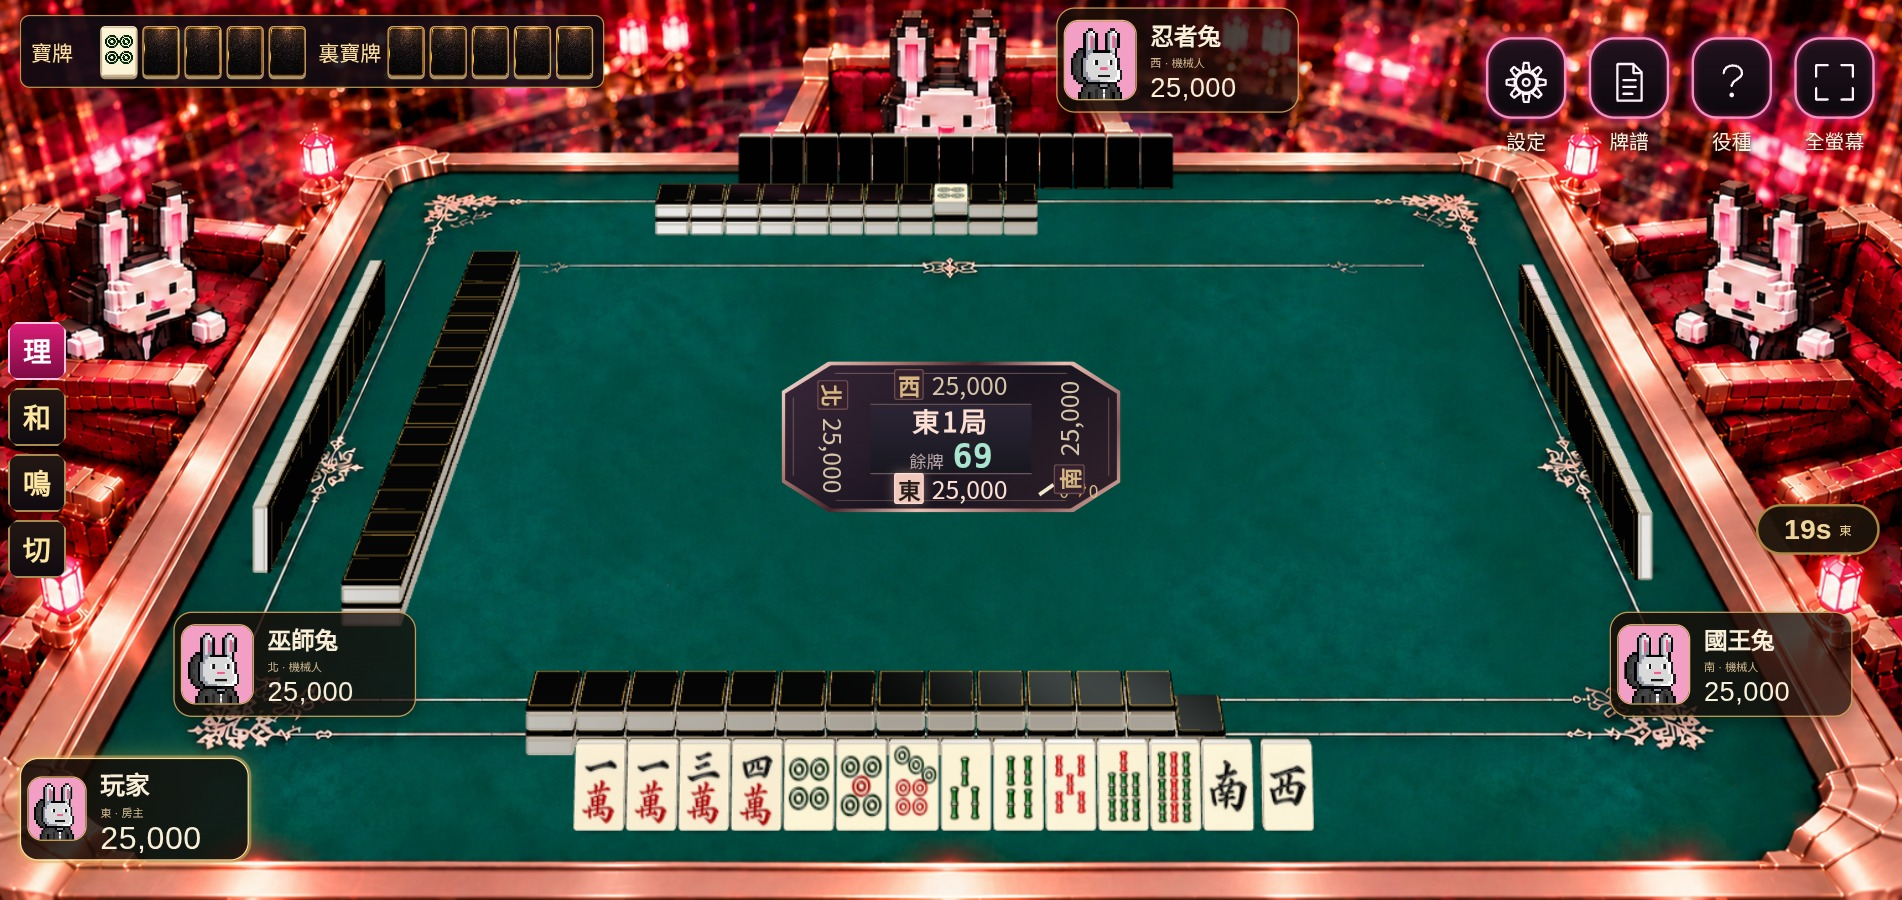
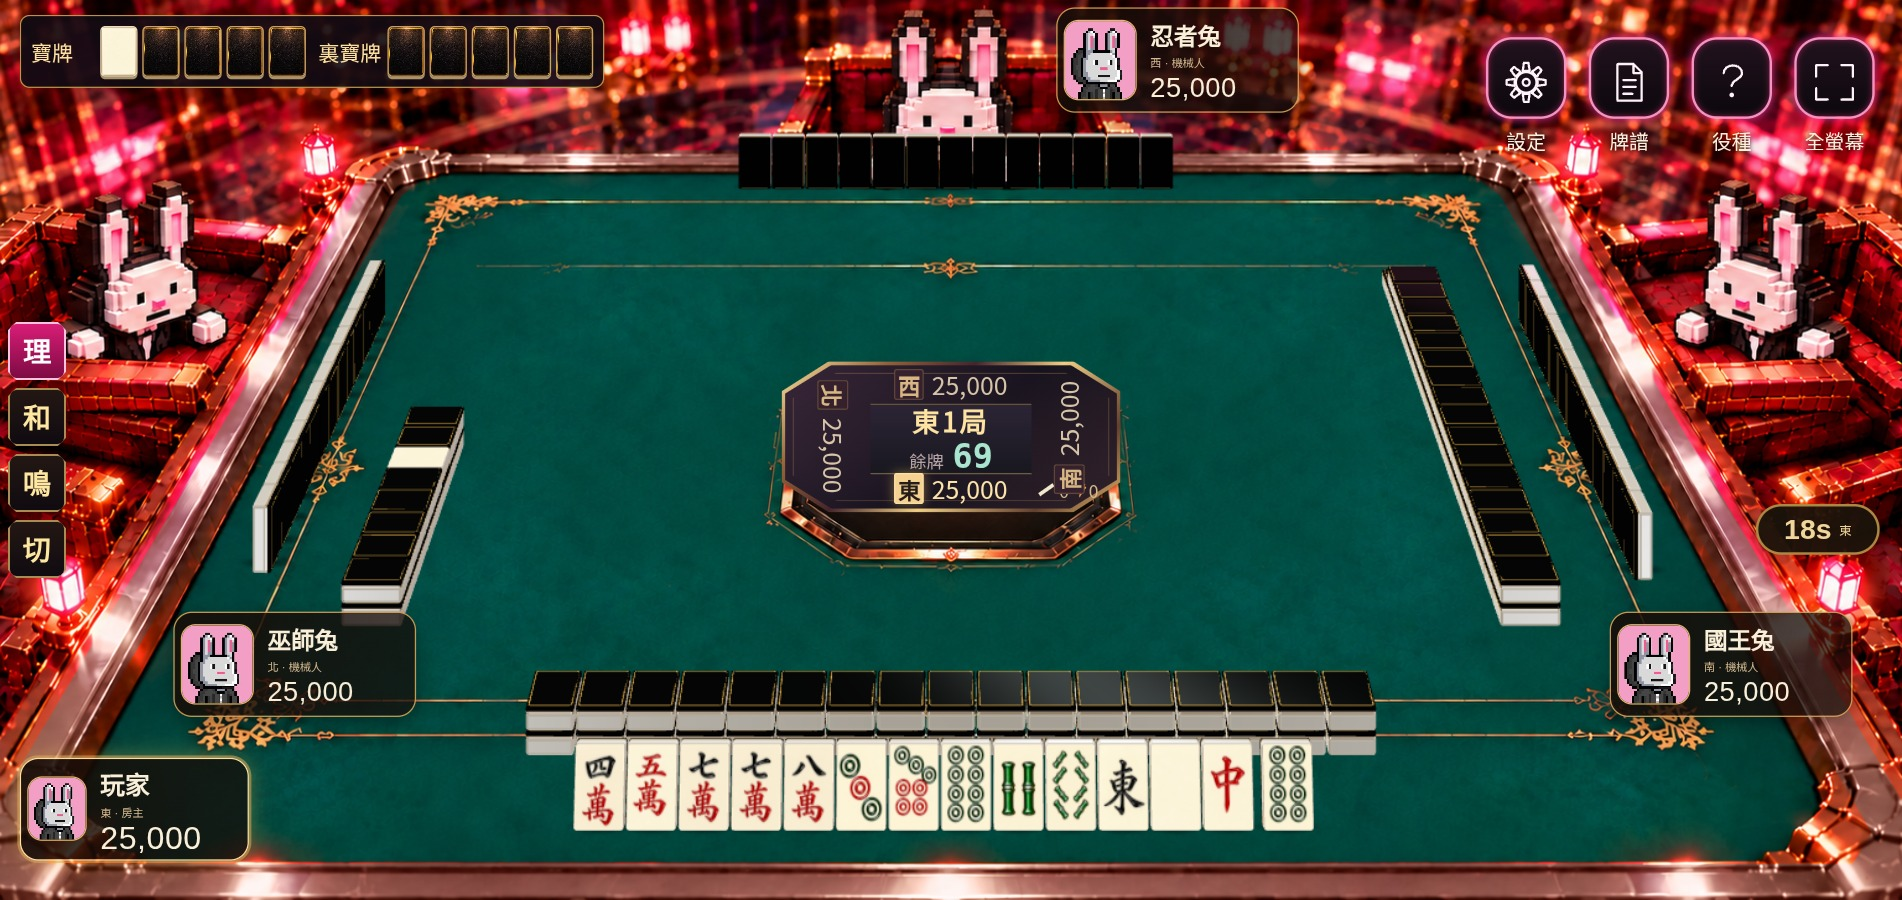
Restore original artwork and apply only a rose-gold rim color overlay

diff --git a/Bunny_Gala_Riichi_v2.7.2/client/src/round-hub.css b/Bunny_Gala_Riichi_v2.7.2/client/src/round-hub.css
@@ -1,6 +1,6 @@
 /* One reserved hub, centered between the four fixed river origins. */
 .table .round-center.gala-round-hub{position:absolute;left:50%;top:calc(var(--view-height)*.4853);width:274px;height:122px;transform:translate(-50%,-50%);display:block!important;padding:0;border:0!important;border-radius:0!important;box-shadow:none!important;background:none!important;isolation:isolate;pointer-events:none;font-family:'Noto Sans TC',sans-serif;color:#ffedc6}
-.gala-round-hub:before{display:none!important}.hub-bezel{position:absolute;inset:0;clip-path:polygon(14% 0,86% 0,100% 20%,100% 80%,86% 100%,14% 100%,0 80%,0 20%);background:linear-gradient(135deg,#ffe6e0 0%,#b78178 22%,#44252c 40%,#edbfb2 58%,#875a5a 82%,#e9b5a8);filter:drop-shadow(0 5px 4px #0009)}.hub-bezel:before{content:'';position:absolute;inset:3px;background:linear-gradient(135deg,#382638,#17131e 54%,#30212a);clip-path:inherit}.hub-bezel:after{content:'';position:absolute;inset:9px;border:1px solid #e8b9ac55;clip-path:inherit;background:radial-gradient(ellipse,#5e3a431f,#0000)}
-.hub-seat{position:absolute;display:flex;align-items:center;justify-content:center;gap:6px;height:30px;min-width:100px;color:#d8c5aa;font-size:20px;font-variant-numeric:tabular-nums;line-height:1;z-index:2}.hub-seat b{display:grid;place-items:center;width:24px;height:25px;background:#35212d;color:#d8b785;font-size:18px;border:1px solid #c5918266;border-radius:2px}.hub-seat.active b{color:#241b18;background:#f1c8bc;border-color:#ffe2d9;box-shadow:0 0 9px #eab6a577}.hub-seat.active span{color:#ffe1d5}.hub-seat-0{bottom:4px;left:50%;transform:translateX(-50%)}.hub-seat-2{top:4px;left:50%;transform:translateX(-50%)}.hub-seat-1{right:-8px;top:50%;transform:translateY(-50%) rotate(-90deg)}.hub-seat-3{left:-8px;top:50%;transform:translateY(-50%) rotate(90deg)}
-.hub-core{position:absolute;inset:34px 72px 31px;display:flex;flex-direction:column;justify-content:center;align-items:center;border-top:1px solid #d1a39766;border-bottom:1px solid #d1a39766;background:linear-gradient(#2c2435,#181820);line-height:1.1;gap:4px}.hub-core>strong{font-size:22px;font-weight:700;color:#ffe0d4;letter-spacing:2px}.hub-core>div{display:flex;align-items:baseline;gap:7px}.hub-core>div>span{font-size:14px;color:#b9a5a7}.hub-core>div>b{font:700 27px/1 'Bunny Pixel',monospace;color:#a9e5cf;font-variant-numeric:tabular-nums}.hub-core>small{display:none}.hub-deposits{position:absolute;bottom:8px;right:18px;display:flex;gap:7px;font-size:14px;color:#d9bc8f}.hub-deposits>span{display:flex;align-items:center;gap:3px}.hub-honba{width:14px;height:3px;background:#f1e9cc;display:inline-block;transform:rotate(-35deg)}.hub-carrot{width:6px;height:12px;background:#ef9a4b;display:inline-block;clip-path:polygon(0 15%,35% 15%,35% 0,70% 0,70% 15%,100% 15%,70% 100%);transform:rotate(25deg)}
+.gala-round-hub:before{display:none!important}.hub-bezel{position:absolute;inset:0;clip-path:polygon(14% 0,86% 0,100% 20%,100% 80%,86% 100%,14% 100%,0 80%,0 20%);background:linear-gradient(135deg,#ffe7a3 0%,#936139 22%,#44252c 40%,#f1ce83 58%,#63402e 82%,#e5b76b);filter:drop-shadow(0 5px 4px #0009)}.hub-bezel:before{content:'';position:absolute;inset:3px;background:linear-gradient(135deg,#382638,#17131e 54%,#30212a);clip-path:inherit}.hub-bezel:after{content:'';position:absolute;inset:9px;border:1px solid #d6aa6244;clip-path:inherit;background:radial-gradient(ellipse,#5e3a431f,#0000)}
+.hub-seat{position:absolute;display:flex;align-items:center;justify-content:center;gap:6px;height:30px;min-width:100px;color:#d8c5aa;font-size:20px;font-variant-numeric:tabular-nums;line-height:1;z-index:2}.hub-seat b{display:grid;place-items:center;width:24px;height:25px;background:#35212d;color:#d8b785;font-size:18px;border:1px solid #a07a4a66;border-radius:2px}.hub-seat.active b{color:#241b18;background:#f5d292;border-color:#ffe3a4;box-shadow:0 0 9px #ebbc6377}.hub-seat.active span{color:#ffe5ac}.hub-seat-0{bottom:4px;left:50%;transform:translateX(-50%)}.hub-seat-2{top:4px;left:50%;transform:translateX(-50%)}.hub-seat-1{right:-8px;top:50%;transform:translateY(-50%) rotate(-90deg)}.hub-seat-3{left:-8px;top:50%;transform:translateY(-50%) rotate(90deg)}
+.hub-core{position:absolute;inset:34px 72px 31px;display:flex;flex-direction:column;justify-content:center;align-items:center;border-top:1px solid #d1ae5b66;border-bottom:1px solid #d1ae5b66;background:linear-gradient(#2c2435,#181820);line-height:1.1;gap:4px}.hub-core>strong{font-size:22px;font-weight:700;color:#ffe3a3;letter-spacing:2px}.hub-core>div{display:flex;align-items:baseline;gap:7px}.hub-core>div>span{font-size:14px;color:#b9a5a7}.hub-core>div>b{font:700 27px/1 'Bunny Pixel',monospace;color:#a9e5cf;font-variant-numeric:tabular-nums}.hub-core>small{display:none}.hub-deposits{position:absolute;bottom:8px;right:18px;display:flex;gap:7px;font-size:14px;color:#d9bc8f}.hub-deposits>span{display:flex;align-items:center;gap:3px}.hub-honba{width:14px;height:3px;background:#f1e9cc;display:inline-block;transform:rotate(-35deg)}.hub-carrot{width:6px;height:12px;background:#ef9a4b;display:inline-block;clip-path:polygon(0 15%,35% 15%,35% 0,70% 0,70% 15%,100% 15%,70% 100%);transform:rotate(25deg)}
 @media(orientation:landscape) and (max-height:500px){.gala-round-hub .hub-seat{font-size:calc(12px / var(--scene-scale))}.gala-round-hub .hub-seat b{font-size:calc(12px / var(--scene-scale))}.gala-round-hub .hub-core>strong{font-size:calc(15px / var(--scene-scale))}.gala-round-hub .hub-core>small{display:none}.gala-round-hub .hub-core>div>span{font-size:calc(10px / var(--scene-scale))}}

diff --git a/Bunny_Gala_Riichi_v2.7.2/client/src/product.css b/Bunny_Gala_Riichi_v2.7.2/client/src/product.css
@@ -348,4 +348,7 @@
 /* Keep the opposite score card above the entire exposed-meld row. */
 .table .scene-pos-2{left:calc(50% + 85px);top:6px}
 
-.table-backdrop{background-image:url('/art/gala-table-rose-gold.png')}
+.table-backdrop{background-image:url('/art/empty-plate.png')}
+/* Color-only finish: original plate remains byte-for-byte unchanged. */
+.table-backdrop{isolation:isolate}
+.table-backdrop::after{content:'';position:absolute;inset:0;background:#dfb3ab;mix-blend-mode:color;opacity:.82;pointer-events:none;clip-path:polygon(evenodd,21.5% 16.7%,78.5% 16.7%,80.7% 20%,100% 89%,100% 100%,0 100%,0 89%,19.3% 20%,21.5% 16.7%,22.7% 19.2%,21.1% 21.8%,1.6% 92.5%,2.6% 96%,97.4% 96%,98.4% 92.5%,78.9% 21.8%,77.3% 19.2%,22.7% 19.2%)}

diff --git a/Bunny_Gala_Riichi_v2.7.2/client/src/table-backdrop.ts b/Bunny_Gala_Riichi_v2.7.2/client/src/table-backdrop.ts
@@ -1,3 +1,3 @@
 /** The approved V11 plate already contains the chairs and rabbits. */
-export const TABLE_BACKDROP='/art/gala-table-rose-gold.png';
+export const TABLE_BACKDROP='/art/empty-plate.png';
 export function backdropTransform(height:number){const x=1536/1850,y=height/850;return{css:`scale(${x},${y})`,point(a:number,b:number){return{x:a*x,y:b*y}}};}

diff --git a/Bunny_Gala_Riichi_v2.7.2/docs/qa-approved-table/README.md b/Bunny_Gala_Riichi_v2.7.2/docs/qa-approved-table/README.md
@@ -1,10 +1,8 @@
-# Approved atlases / rose-gold table integration
+# Approved atlas / V11 table integration
 
 Based on `codex/clear-table-scene` at 8f2169f95a002a0215dc5635cb1bcca08f2e8271.
 
 The four existing atlases and peacock image remain unchanged. The V11 `docs/art-previews/full-table-fixed-v11/empty-plate.png` is copied byte-for-byte to `client/public/art/empty-plate.png`. The same calibrated broad-table projection drives DOM hit targets and WebGL tiles. This is an art-fitted camera, not a physical 60-degree camera.
-
-The runtime table uses `gala-table-rose-gold.png`, a separate material refinement of the retained V11 plate: soft rose-gold outer rim and ornament lines, with the old central black pocket removed for the new hub. The original `empty-plate.png` and all atlas PNGs remain unchanged.
 
 The actual App now uses a four-seat round hub with live scores, seat/turn state, remaining tiles, honba and pot. Chi choices are anchored above a single Chi confirmation button. The prior result-sheet and four-way settlement components are retained and use the existing atlas-backed MiniTile. The result overlay owns pointer events independently of the gameplay control rail.
 
@@ -15,3 +13,7 @@ Validation: client TypeScript/Vite build, 12 room tests, locked-art hashes, real
 Run from the project root: `QA_OUTPUT_DIR=/tmp/bunny-approved-table node --import tsx scripts/review-real-table.mjs`. Set `QA_CHROMIUM_PATH` if needed; the script currently uses /usr/bin/chromium. Optional `RECORD_ART_VIDEO=1` records the same flow.
 
 Formal game production has not been deployed by this change.
+
+
+## Color-only correction
+The generated replacement image was withdrawn. The runtime uses the original Empty Plate unchanged. Only a masked CSS color blend changes the outer metal rim to rose gold; texture, geometry, ornamentation, central pocket and tile atlas PNGs remain intact. Relative to a64f9ef, runtime source changes are limited to three CSS lines.
